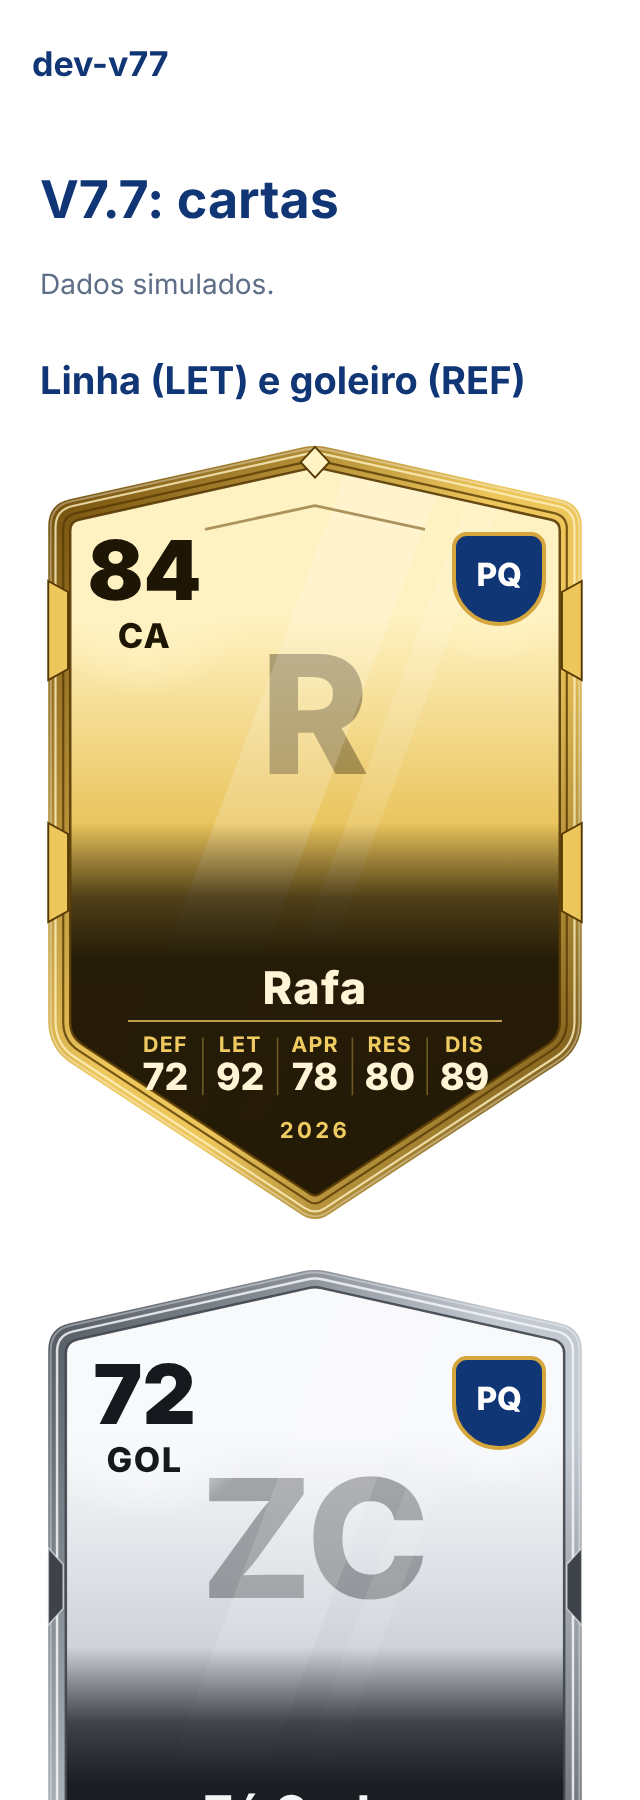
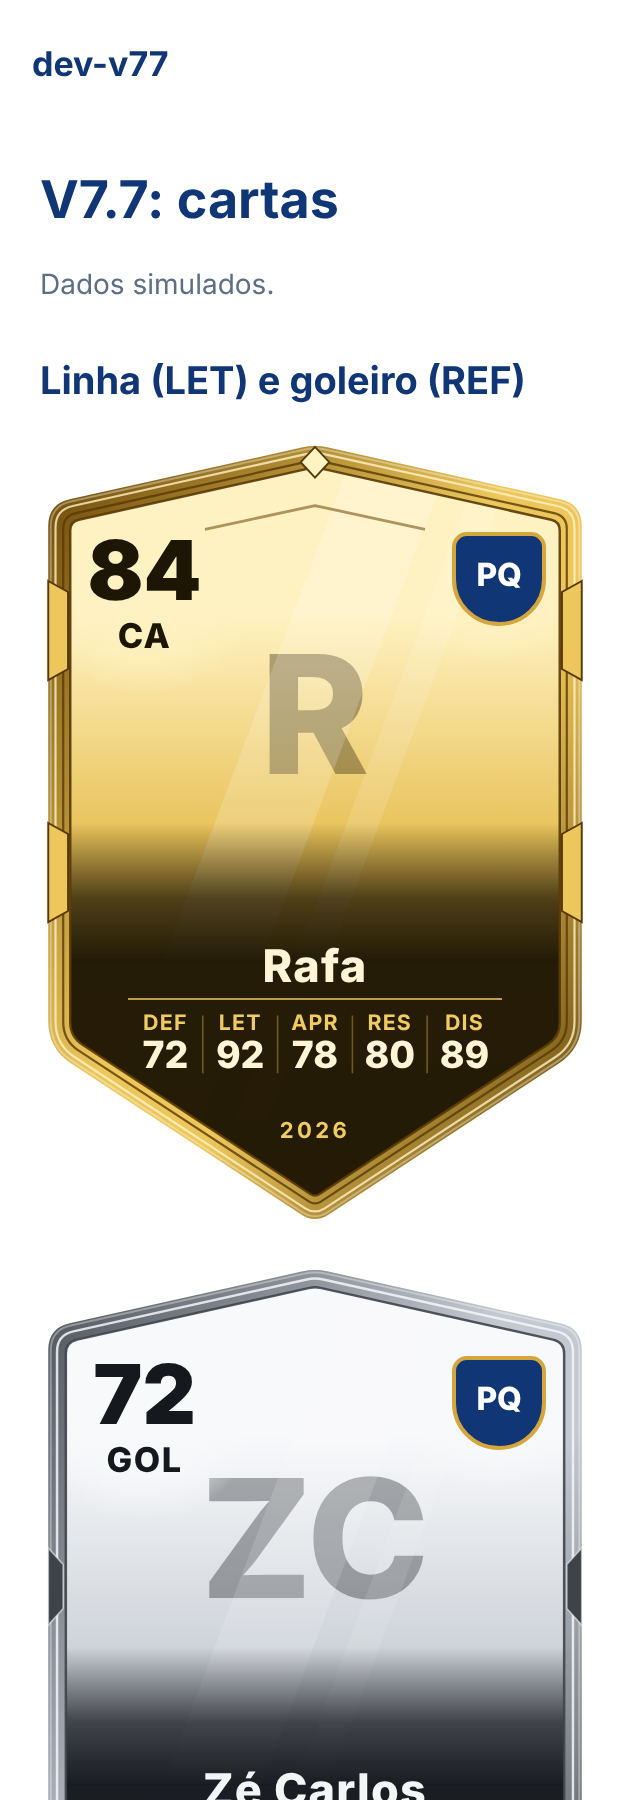
Carta: nome e atributos 4 unidades acima, longe da borda inferior
Claude-Session: https://claude.ai/code/session_012DtbNoau22BR82dvUs8Qio

diff --git a/app/src/lib/playercard.tsx b/app/src/lib/playercard.tsx
@@ -130,8 +130,8 @@ const PANEL_FROM = 70; // onde o painel escuro começa a aparecer
 const PANEL_SOLID = 95; // daqui para baixo o painel é sólido
 const ROW_L = 16;
 const ROW_R = 84;
-const ROW_TOP = 108;
-const ROW_BOTTOM = 120.5;
+const ROW_TOP = 104; // V7.7: bloco do nome e atributos 4 unidades acima (não encostar na borda inferior)
+const ROW_BOTTOM = 116.5;
 
 // V4.3: a sigla oficial (GOL, ZAG, LD...) quando a posição atual é do setor do Card; senão, o setor do Card
 // (um Card de temporada antiga não muda de setor). Layout e fórmulas do Modelo A intactos.
@@ -408,7 +408,7 @@ export function PlayerCard({
       <Text
         style={{
           position: 'absolute',
-          top: px(95),
+          top: px(91),
           left: px(10),
           right: px(10),
           textAlign: 'center',
